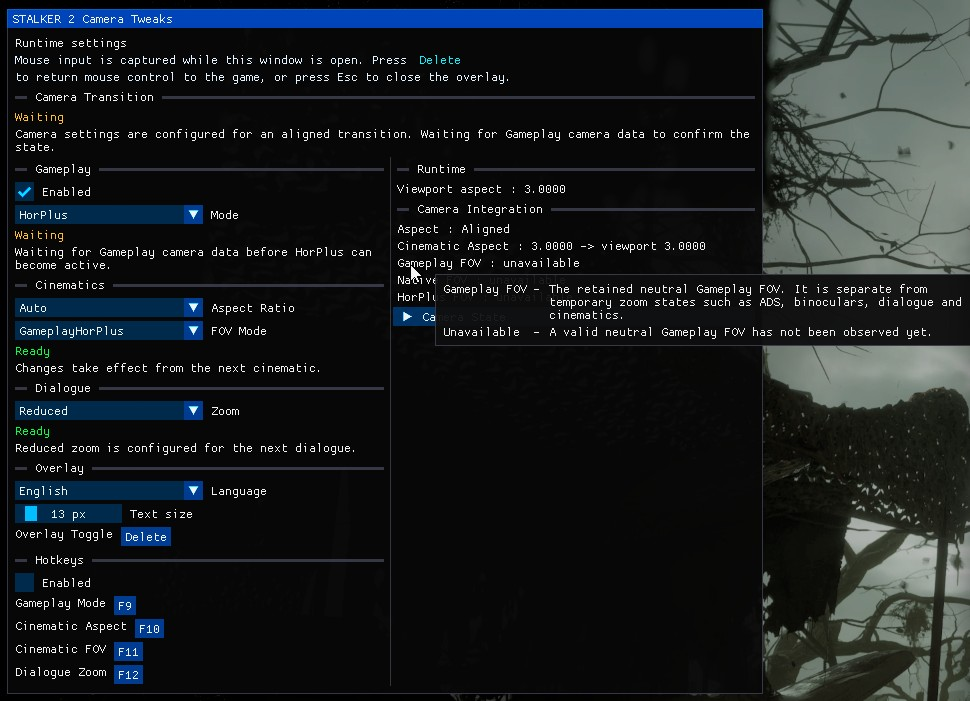
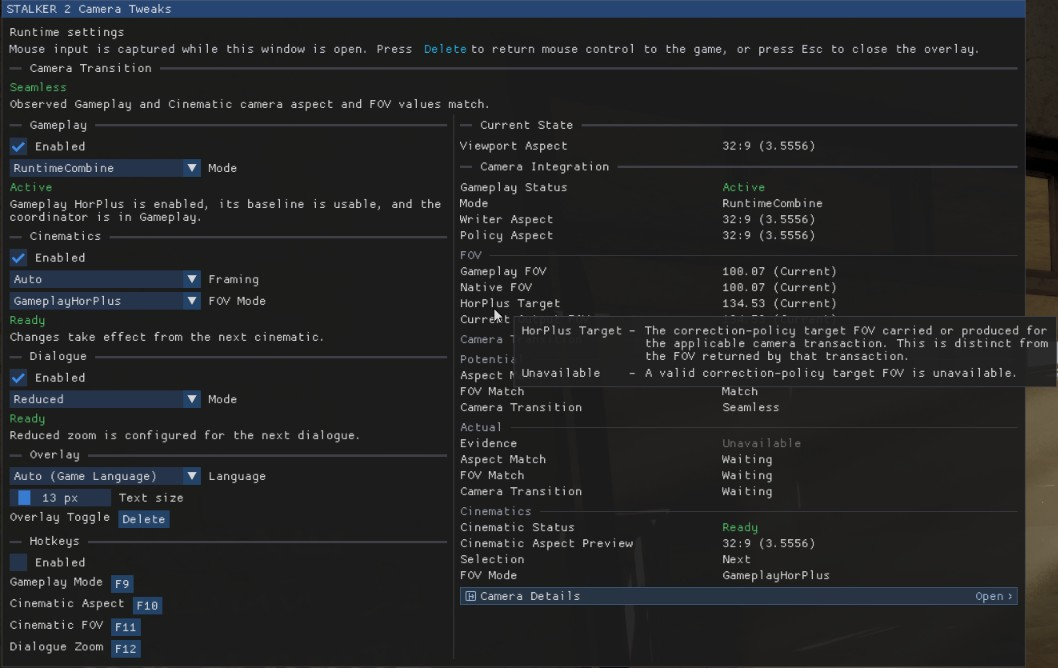
Readme and screens update

diff --git a/README.md b/README.md
@@ -44,6 +44,10 @@ The overlay brings the mod's settings and runtime status into the game. It inclu
 
 <p align="center"><img src="screens/Locales.gif" alt="Switching between embedded in-game overlay language catalogs" width="850"></p>
 
+**Camera State panel:** expand Camera Details to view the read-only diagnostic panel beside the main settings and current-state columns.
+
+<p align="center"><img src="screens/Overlay%20camera%20state.jpg" alt="In-game overlay with the Camera State diagnostic panel expanded" width="850"></p>
+
 ## Download and installation
 
 Prebuilt releases and installation instructions are available on [Nexus Mods](https://www.nexusmods.com/stalker2heartofchornobyl/mods/2416).
